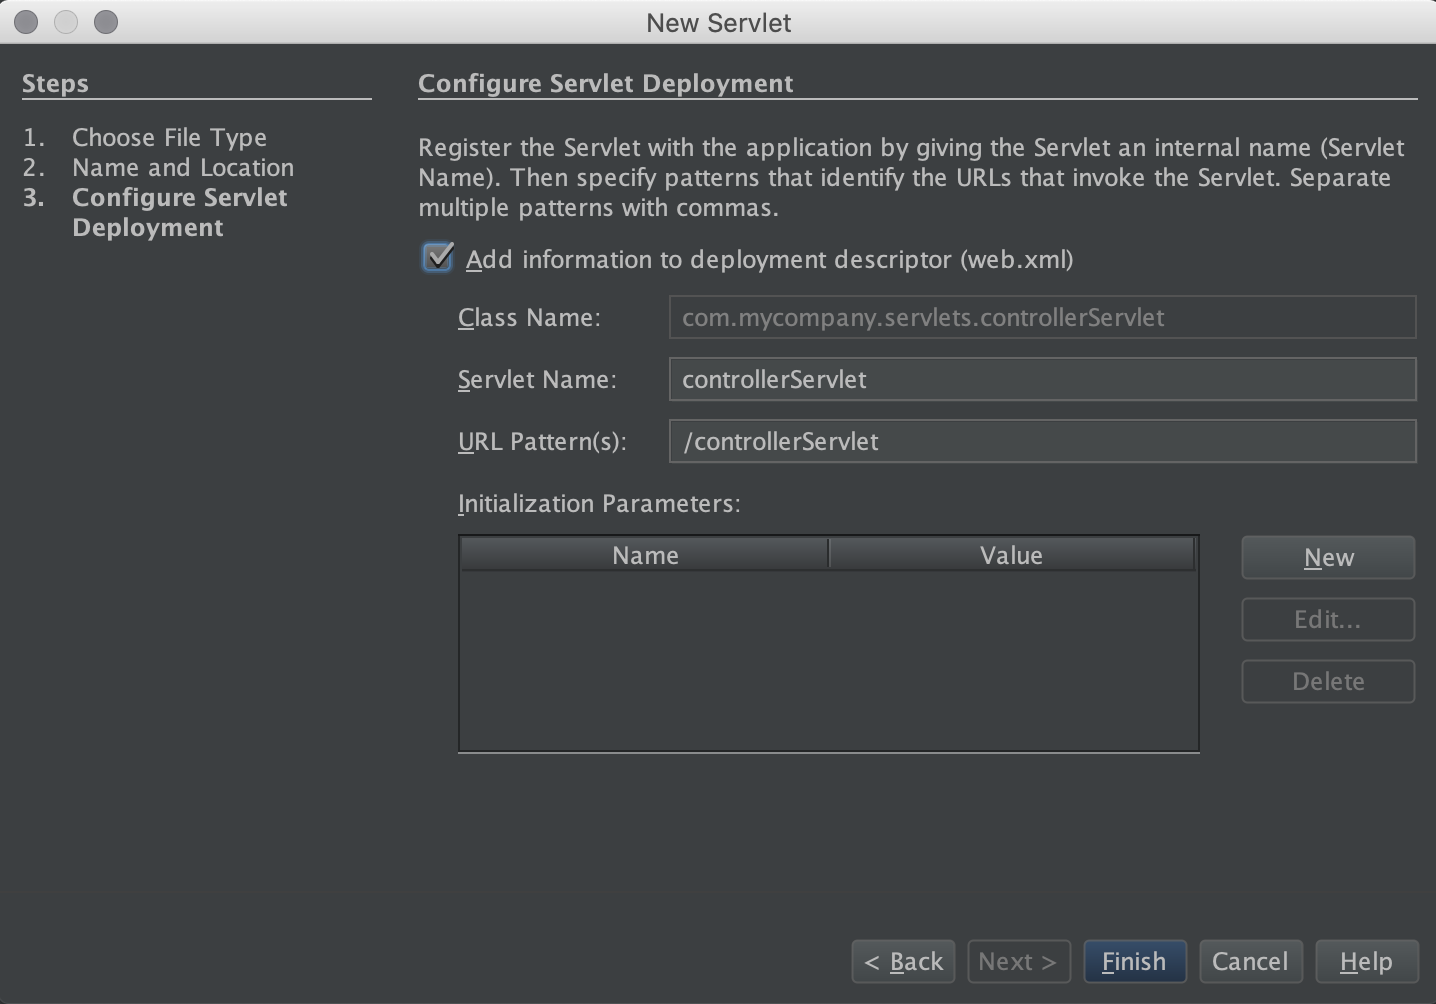
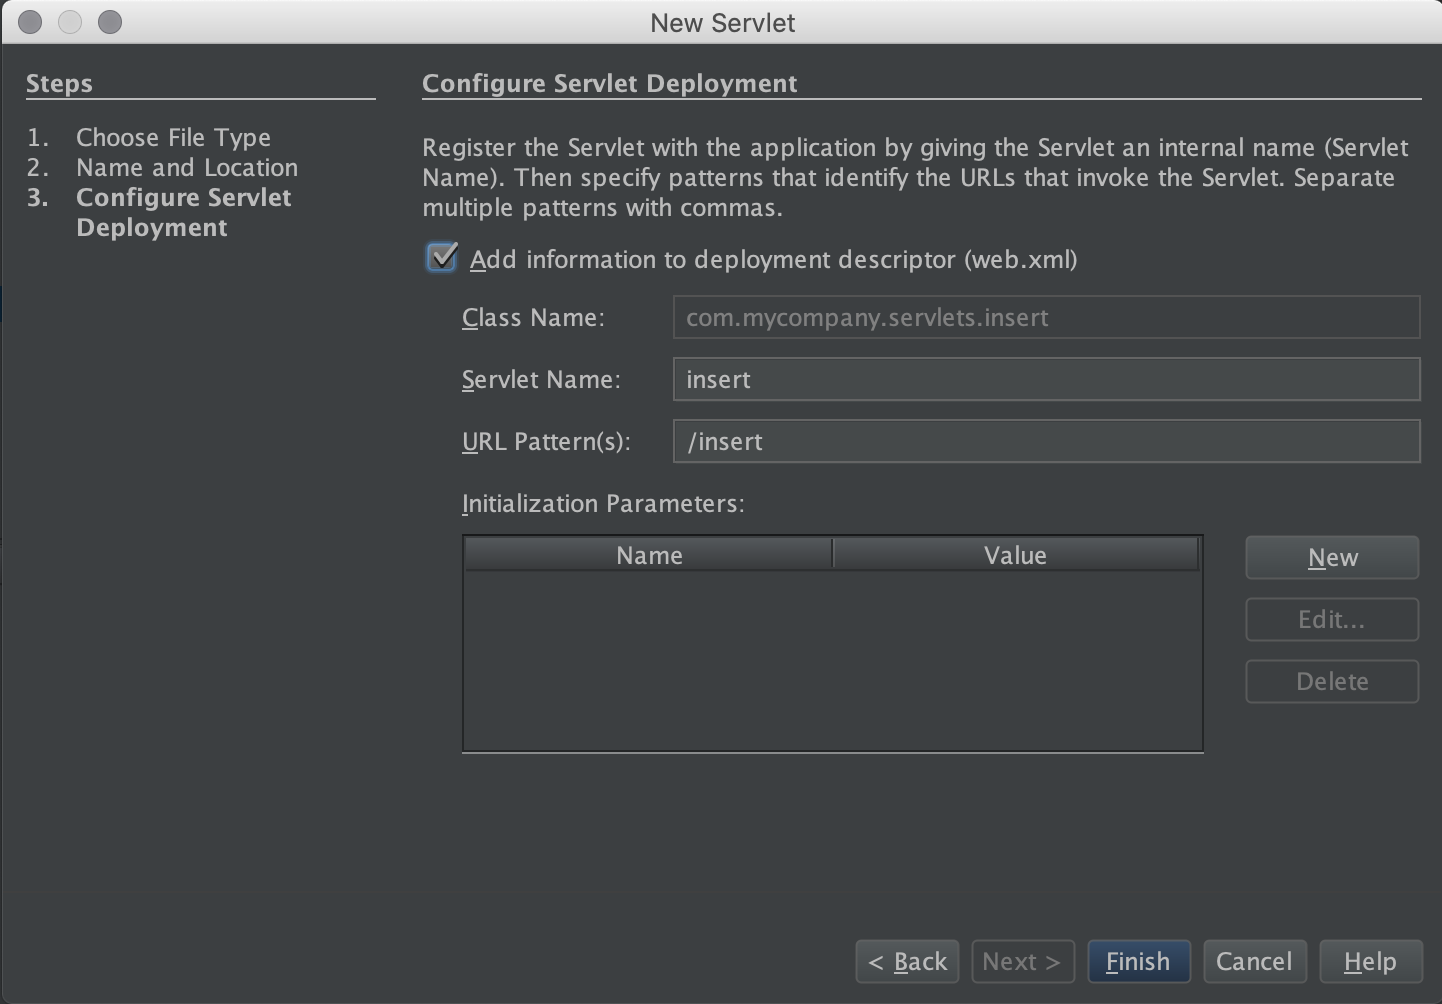
JSP done

diff --git a/week9/README.md b/week9/README.md
@@ -42,33 +42,52 @@ In this section, we will make an overview of Servlets, data transmission (using 
       </form>
       ```
 
-2. We will create an EJB to handle the transactions. It will contain all basic method to create a new bank account. 
-   To create a new Stateless EJB, Right click on the package containing our beans (com.mycompany.beans) > New > Session Bean
-
-   The Stateless Bean will contain the same attributes as described above: _lastname_ and _firstname_. Our EJB should have the following methods (Getters and Setters):
-   ```Java
-   public String getFirstName() {
-        return firstName;
-    }
-
-    public void setFirstName(String firstName) {
-        this.firstName = firstName;
-    }
-
-    public String getLastName() {
-        return lastName;
-    }
-
-    public void setLastName(String lastName) {
-        this.lastName = lastName;
-    }
-    ```
-   
-3. Create a servlet: Right click on the servlet's package (com.mycompany.servlets) > New > Servlet. In the dialog box, give a name to your servlet (`insert`), click on `Next`. On the next page, check the box `Add information to deployment descriptor`
+2. Create a servlet: Right click on the servlet's package (com.mycompany.servlets) > New > Servlet. In the dialog box, give a name to your servlet (`insert`), click on `Next`. On the next page, check the box `Add information to deployment descriptor`
 
 <img src="https://github.com/doplab/soar-tp/blob/master/week9/images/createServlet1.png?raw=True" alt="Packages">
 
-Looking at the generated code for the new `insert`, you can see that the IDE's servlet template employs a processRequest method which is called by both doGet and doPost methods. (You may need to expand the code fold by clicking the plus icon in the editor's left margin to view these methods.) Because this application differentiates between _doGet_ and _doPost_, we will add code directly to these methods and remove the processRequest method altogether.
+Looking at the generated code for the new `insert` servlet, you can see that the IDE's servlet template employs a processRequest method which is called by both doGet and doPost methods. (You may need to expand the code fold by clicking the plus icon in the editor's left margin to view these methods.) Because this application differentiates between _doGet_ and _doPost_, we will add code directly to these methods and remove the processRequest method altogether.
+
+In the `doPost` method, we will get the parameters of the form. To do it, we have to invoke the method `.getParameter("parameter name")` of request. Then we will provide these parameters to _accountDetails.jsp_ by using a `RequestDispatcher`.
+
+Our code should look like this:
+```java
+@Override
+    protected void doPost(HttpServletRequest request, HttpServletResponse response)
+            throws ServletException, IOException {
+        
+        RequestDispatcher rd = request.getRequestDispatcher("/accountDetails.jsp");
+        String firstname = request.getParameter("firstname");
+        String lastname = request.getParameter("lastname");
+        
+        request.setAttribute("firstname", firstname);
+        request.setAttribute("lastname", lastname);
+     
+        rd.forward(request, response);
+    }
+```
+The method `rd.forward(request, response)` will redirect us to `accountDetails.jsp` with the defined attributes (`firstname` and `lastname`).
+
+1. Get the attributes: In `accountDetails.jsp`, we will show a simple message containing in the attributes mentionned above. To get these attributes, we can use `request.getParameter("_Attribute name_")` or an EL `${param.firstname}`.
+
+Our JSP file should look like this:
+```html
+<%@page contentType="text/html" pageEncoding="UTF-8"%>
+<!DOCTYPE html>
+<html>
+    <head>
+        <meta http-equiv="Content-Type" content="text/html; charset=UTF-8">
+        <title>Confirmation message</title>
+    </head>
+    <body>
+        <h1>Welcome ${param.firstname} ${param.lastname}</h1>
+    </body>
+</html>
+```
+
+<img src="https://github.com/doplab/soar-tp/blob/master/week9/images/result.png?raw=True" alt="Packages">
+
+
 
 
 
